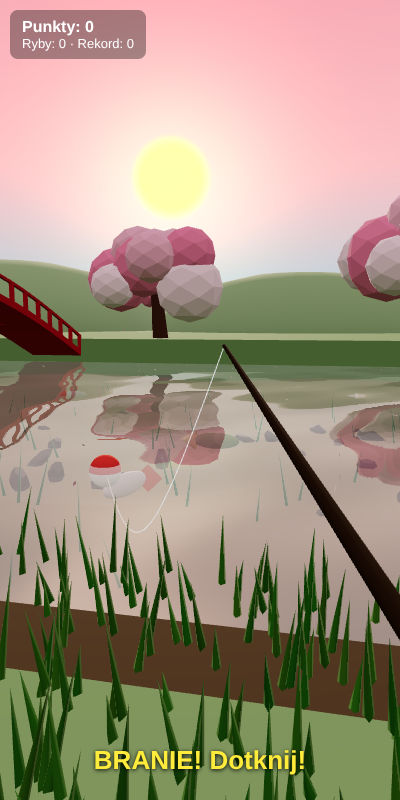
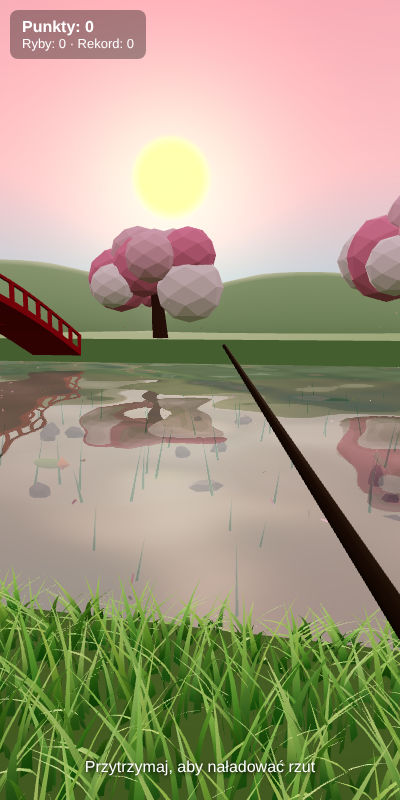
Sakura River 3D: GPU grass shader (curved blades, gradient, wind), cleaner bank edge
Claude-Session: https://claude.ai/code/session_0135N7RBne1EWupuqrvu7N74

diff --git a/fishing-game/3d/index.html b/fishing-game/3d/index.html
@@ -151,11 +151,12 @@ caustic.rotation.x = -Math.PI / 2; caustic.position.set(0, BED_Y + 0.05, -7); sc
 
 // ---------- banks ----------
 const grassMat = new THREE.MeshStandardMaterial({ color: 0x7fa36a, roughness: 1 });
-const dirtMat = new THREE.MeshStandardMaterial({ color: 0x5c4a32, roughness: 1 });
+const dirtMat = new THREE.MeshStandardMaterial({ color: 0x3f4a26, roughness: 1 });
 const nearBank = new THREE.Mesh(new THREE.BoxGeometry(200, 2, 30), dirtMat);
-nearBank.position.set(0, -0.4, 24); scene.add(nearBank);
-const nearGrass = new THREE.Mesh(new THREE.BoxGeometry(200, 0.2, 29), grassMat);
-nearGrass.position.set(0, 0.7, 24.5); scene.add(nearGrass);
+nearBank.position.set(0, -0.4, 24.4); scene.add(nearBank);
+
+const nearGrass = new THREE.Mesh(new THREE.BoxGeometry(200, 0.2, 30), new THREE.MeshStandardMaterial({ color: 0x4f6e32, roughness: 1 }));
+nearGrass.position.set(0, 0.7, 24.4); scene.add(nearGrass);
 const farBank = new THREE.Mesh(new THREE.BoxGeometry(200, 3, 40), grassMat);
 farBank.position.set(0, 0, -42); scene.add(farBank);
 for (let i = 0; i < 9; i++) {
@@ -211,27 +212,53 @@ function sakura(x, z, s = 1) {
 const sakuraTrees = [sakura(12, 10.5, 1.2), sakura(-24, 11, 1.3), sakura(18, 13, 1.1),
   sakura(-30, -24, 1.5), sakura(-8, -25, 1.3), sakura(10, -26, 1.6), sakura(28, -24, 1.4)];
 
-// ---------- grass in the foreground ----------
-const bladeGeo = new THREE.ConeGeometry(0.03, 0.4, 3); bladeGeo.translate(0, 0.3, 0);
-const BLADES = 2500;
-const grass = new THREE.InstancedMesh(bladeGeo, new THREE.MeshStandardMaterial({ color: 0x6f9a4f, roughness: 1 }), BLADES);
-const grassBase = [];
+// ---------- grass shader: thin curved blades, colour gradient, wind on the GPU ----------
+function bladeGeometry() {
+  // 5 segments, tapering to a point, bent forward a little
+  const segs = 5, w = 0.045, h = 1, pos = [], uv = [], idx = [];
+  for (let i = 0; i <= segs; i++) {
+    const t = i / segs, half = w * (1 - t) * 0.5, bend = t * t * 0.25;
+    pos.push(-half, t * h, bend, half, t * h, bend);
+    uv.push(0, t, 1, t);
+    if (i < segs) { const k = i * 2; idx.push(k, k + 1, k + 2, k + 1, k + 3, k + 2); }
+  }
+  const geo = new THREE.BufferGeometry();
+  geo.setAttribute('position', new THREE.Float32BufferAttribute(pos, 3));
+  geo.setAttribute('uv', new THREE.Float32BufferAttribute(uv, 2));
+  geo.setIndex(idx); geo.computeVertexNormals();
+  return geo;
+}
+const grassUniforms = { uTime: { value: 0 } };
+const grassMatShader = new THREE.MeshStandardMaterial({ side: THREE.DoubleSide, roughness: 0.85 });
+grassMatShader.onBeforeCompile = sh => {
+  sh.uniforms.uTime = grassUniforms.uTime;
+  sh.vertexShader = 'uniform float uTime;\nvarying float vH;\n' + sh.vertexShader.replace('#include <begin_vertex>', `
+    #include <begin_vertex>
+    vH = uv.y;
+    vec3 ip = vec3(instanceMatrix[3][0], 0.0, instanceMatrix[3][2]);
+    float gust = sin(uTime * 1.6 + ip.x * 0.35 + ip.z * 0.6) * 0.5 + sin(uTime * 3.1 + ip.x * 1.3) * 0.2;
+    float bendK = uv.y * uv.y;
+    transformed.x += gust * 0.22 * bendK;
+    transformed.z += (gust * 0.12 - 0.04) * bendK;`);
+  sh.fragmentShader = 'varying float vH;\n' + sh.fragmentShader.replace('#include <color_fragment>', `
+    #include <color_fragment>
+    vec3 root = vec3(0.10, 0.22, 0.07), tipC = vec3(0.55, 0.78, 0.32);
+    diffuseColor.rgb *= mix(root, tipC, smoothstep(0.0, 1.0, vH)) * 1.6;`);
+};
+const BLADES = 14000;
+const grass = new THREE.InstancedMesh(bladeGeometry(), grassMatShader, BLADES);
 for (let i = 0; i < BLADES; i++) {
-  const x = rnd(-12, 14), z = rnd(9.7, 12.6), s = rnd(0.5, 1.3);
-  grassBase.push({ x, z, s, lean: rnd(-0.3, 0.3), ph: rnd(0, 6) });
-  grass.setColorAt(i, new THREE.Color().setHSL(0.27 + rnd(-0.03, 0.04), 0.45, rnd(0.3, 0.45)));
+  const x = rnd(-14, 16), z = rnd(9.35, 13.2);
+  const nearEdge = 1 - Math.min(1, (z - 9.4) / 0.8); // shorter at the water edge
+  const h = rnd(0.25, 0.6) * (1 - nearEdge * 0.6);
+  dummy.position.set(x, 0.8, z);
+  dummy.rotation.set(rnd(-0.15, 0.15), rnd(0, Math.PI * 2), rnd(-0.15, 0.15));
+  dummy.scale.set(rnd(0.8, 1.4), h, 1); dummy.updateMatrix();
+  grass.setMatrixAt(i, dummy.matrix);
+  grass.setColorAt(i, new THREE.Color().setHSL(0.25 + rnd(-0.03, 0.04), 0.5, rnd(0.45, 0.65)));
 }
 scene.add(grass);
-function updateGrass(t) {
-  for (let i = 0; i < BLADES; i++) {
-    const b = grassBase[i];
-    dummy.position.set(b.x, 0.8, b.z);
-    dummy.rotation.set(Math.sin(t * 1.5 + b.ph + b.x * 0.3) * 0.15 + b.lean, 0, b.lean * 0.5);
-    dummy.scale.set(1, b.s, 1); dummy.updateMatrix();
-    grass.setMatrixAt(i, dummy.matrix);
-  }
-  grass.instanceMatrix.needsUpdate = true;
-}
+function updateGrass(t) { grassUniforms.uTime.value = t; }
 
 // ---------- optional Blender models ----------
 // Export from Blender as glTF Binary (.glb) to 3d/models/. If a file is missing, the built-in shapes stay.
